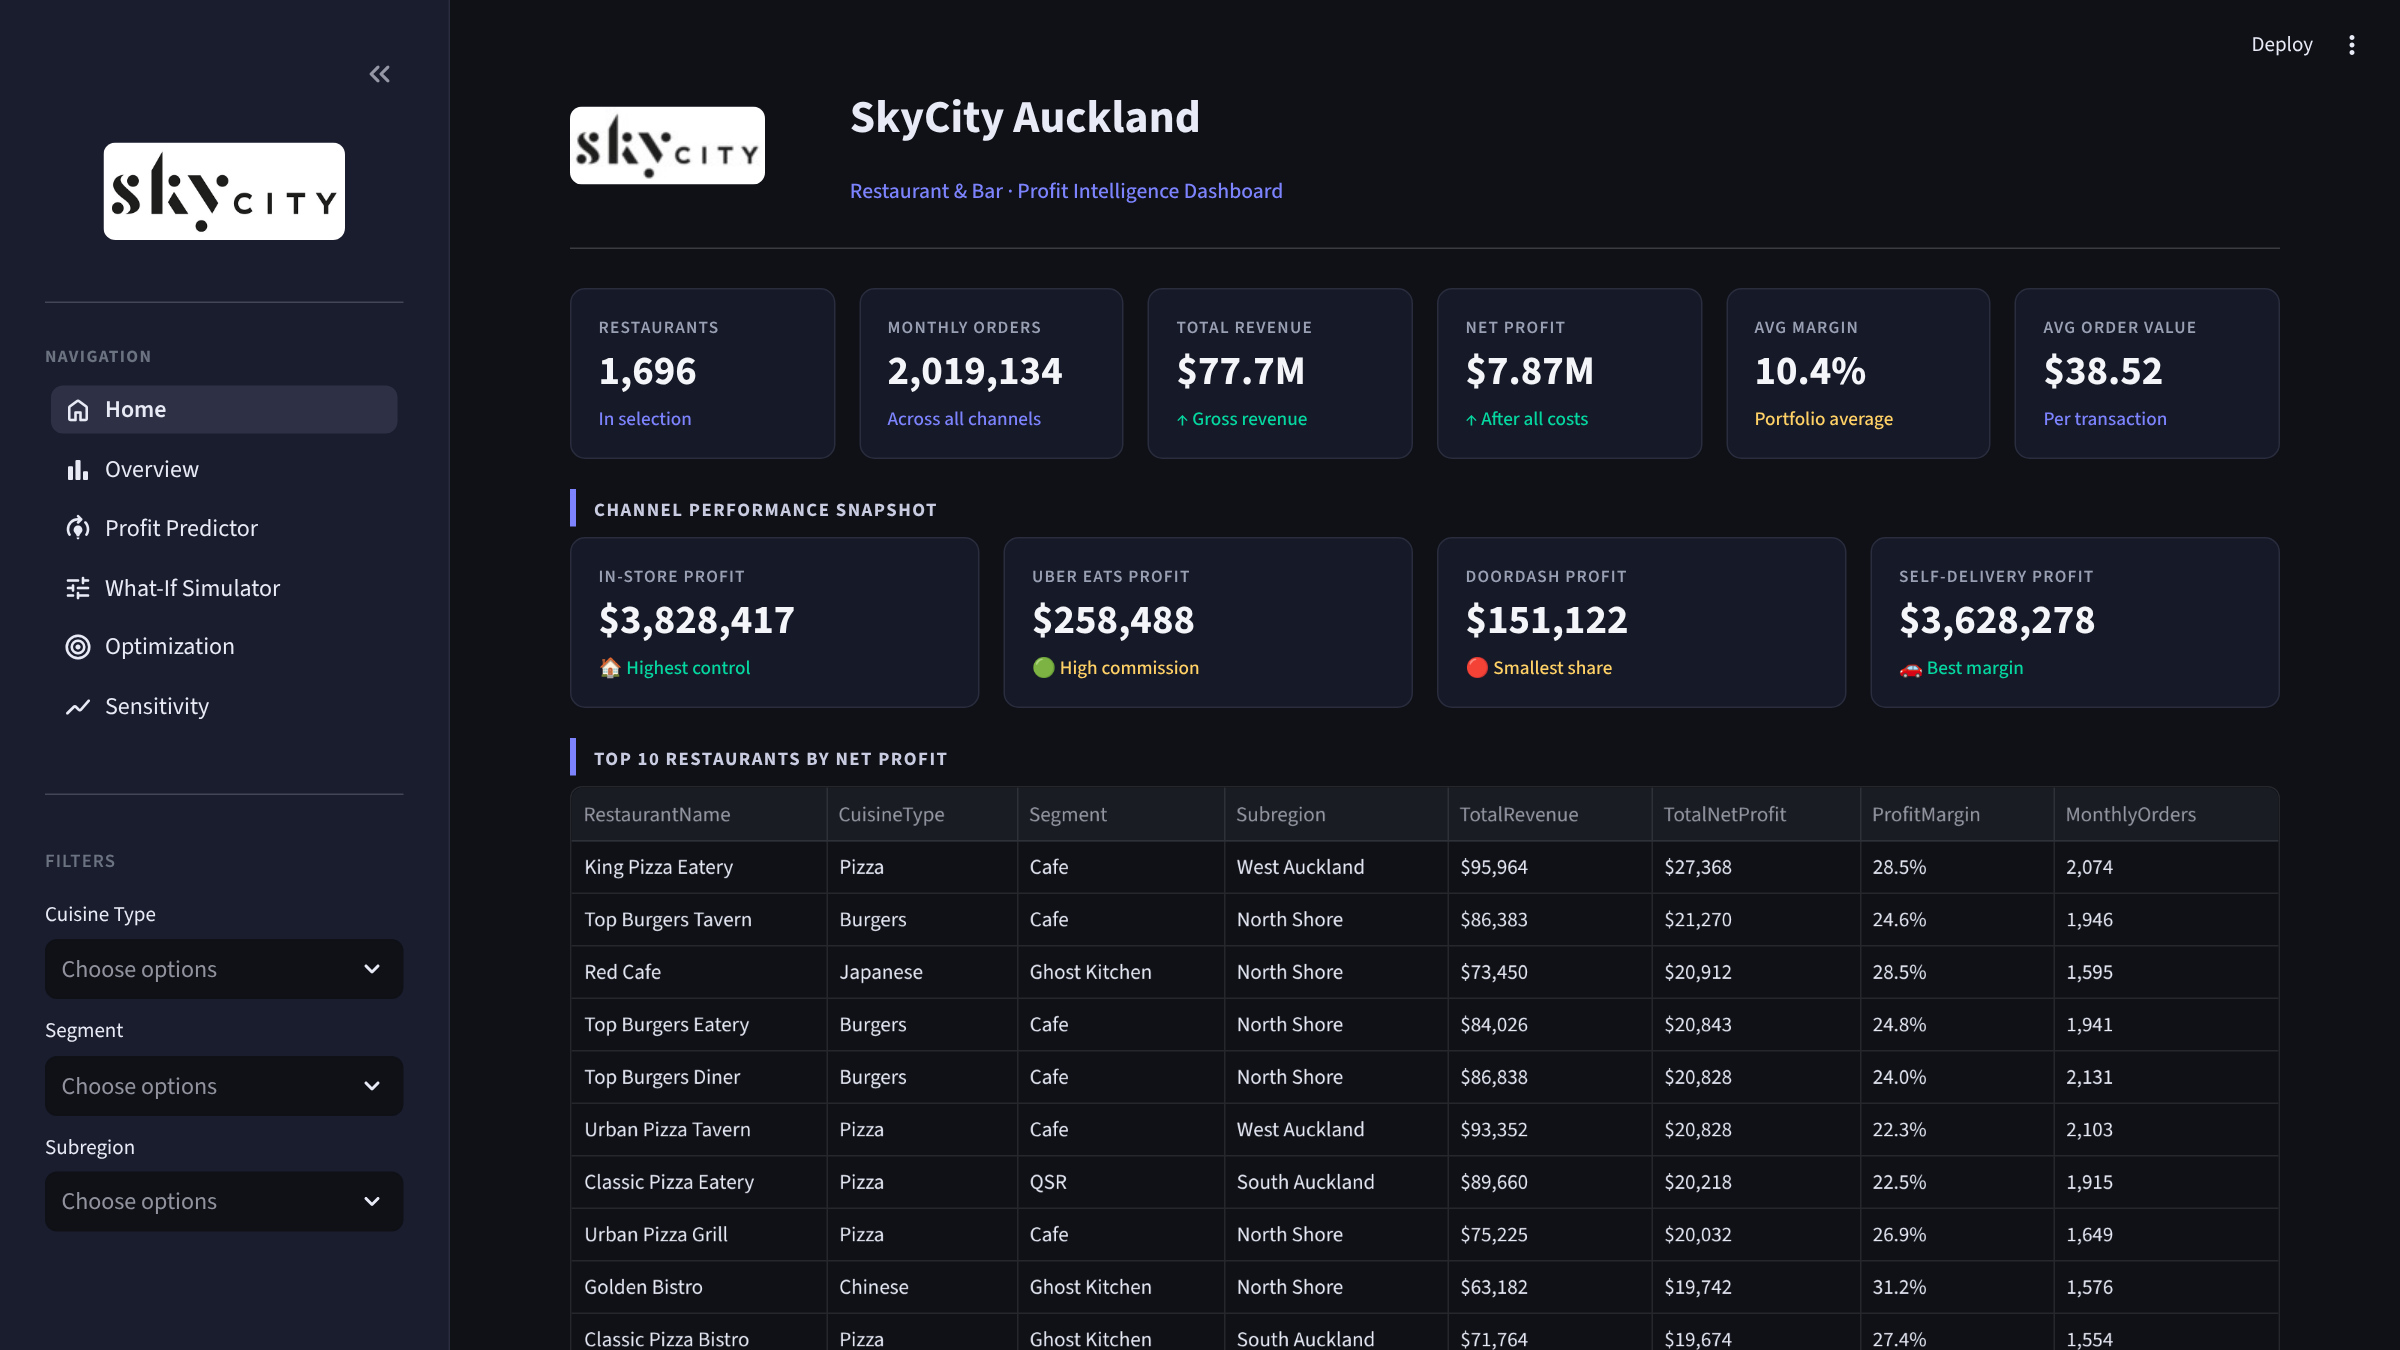
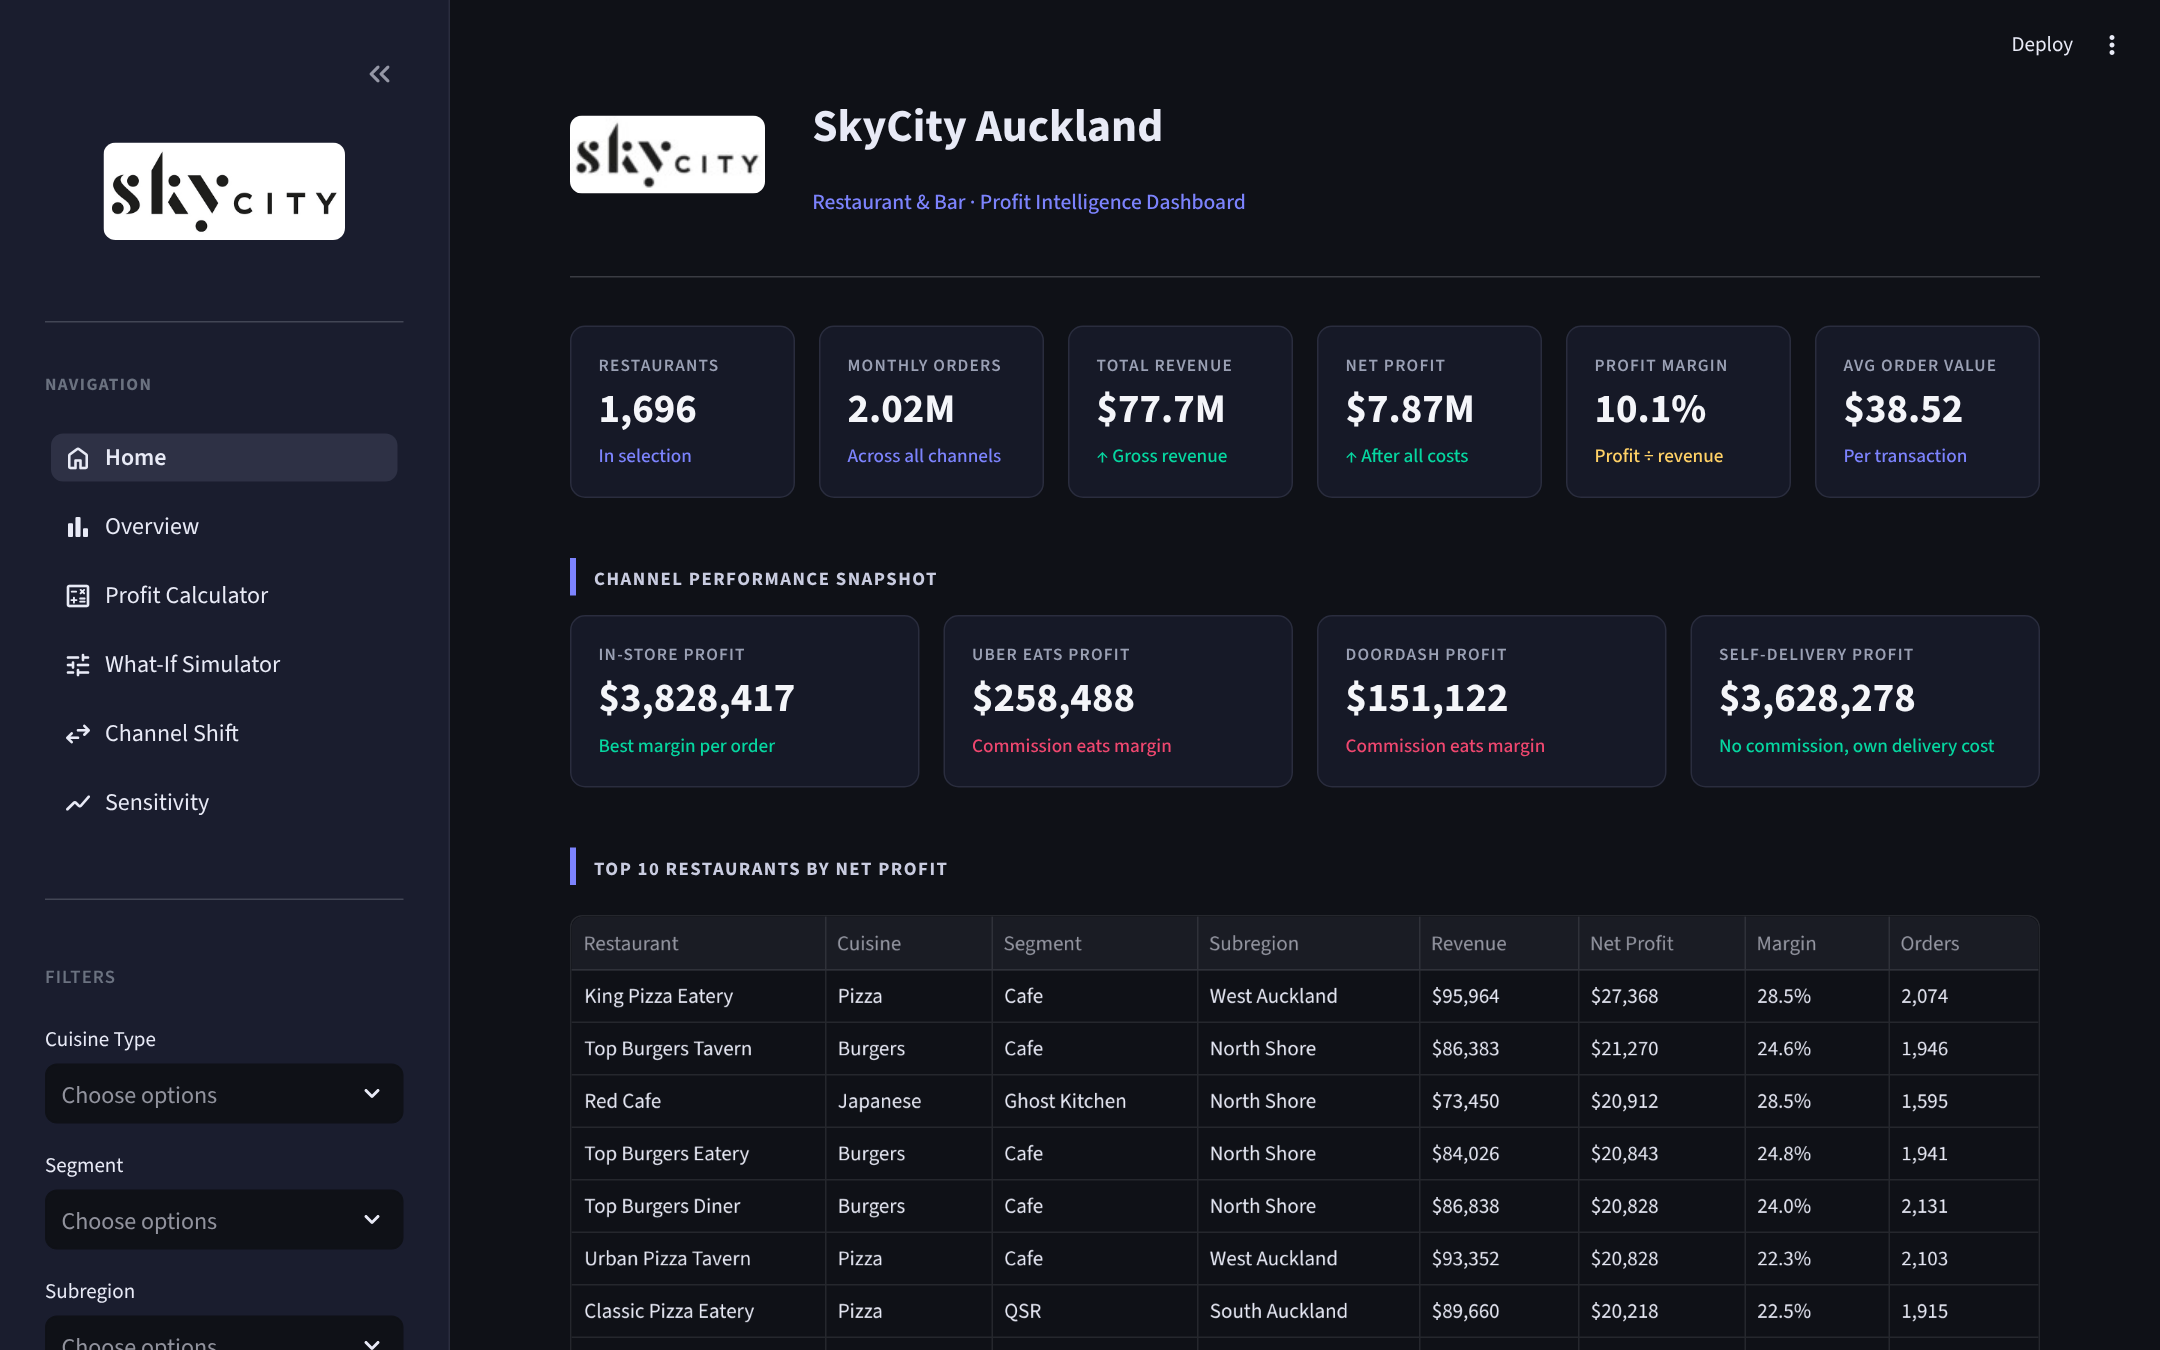
README: describe the rebuilt app (exact formula, Channel Shift); new screenshot
Claude-Session: https://claude.ai/code/session_0152E5F73rTM83YRTh64uy6b

diff --git a/README.md b/README.md
@@ -8,10 +8,9 @@ Project 4 of 4 · Built during my Data Analyst Internship at Unified Mentor (Jan
 
 ![Python](https://img.shields.io/badge/Python-3776AB?logo=python&logoColor=white)
 ![Pandas](https://img.shields.io/badge/Pandas-150458?logo=pandas&logoColor=white)
-![scikit-learn](https://img.shields.io/badge/scikit--learn-F7931E?logo=scikitlearn&logoColor=white)
-![SciPy](https://img.shields.io/badge/SciPy-8CAAE6?logo=scipy&logoColor=white)
+![NumPy](https://img.shields.io/badge/NumPy-013243?logo=numpy&logoColor=white)
+![Matplotlib](https://img.shields.io/badge/Matplotlib-11557C)
 ![Streamlit](https://img.shields.io/badge/Streamlit-FF4B4B?logo=streamlit&logoColor=white)
-![Plotly](https://img.shields.io/badge/Plotly-3F4F75?logo=plotly&logoColor=white)
 
 ![Dashboard](docs/dashboard.png)
 
@@ -22,35 +21,43 @@ Restaurants sell through several channels, each with different costs. Which chan
 ## Key findings
 
 - **Delivery apps bring volume, not profit.** Uber Eats and DoorDash carry **61%** of orders but earn only **5%** of net profit. Their net margin is under 1%.
-- **In-store and self-delivery carry the business.** Together they are 39% of orders but **95%** of profit, with margins of **26.8%** (in-store) and **22.9%** (self-delivery).
-- **Per order, the gap is stark.** An in-store order earns **$10.31** profit, while an Uber Eats order earns **$0.32**.
-- **Costs matter more than commission.** Food cost rate and operating cost rate have the strongest link to profit (correlations of −0.76 and −0.73). Commission rates only range from 27% to 33%, so they barely move profit.
-- **Full-service restaurants lose money overall** (−5.8% margin), while ghost kitchens earn the most (22.2%).
+- **Per order, the gap is stark.** An in-store order earns **$10.31** profit and a self-delivered order **$8.82**. An Uber Eats order earns **$0.32**.
+- **Costs move profit more than commission.** One percentage point of operating or food cost changes monthly profit by **$777K**. One point of commission changes it by **$476K**. That's about **1.6×**, because costs apply to every order and commission only to app orders.
+- **All 408 loss-making restaurants are Full-service.** Their food and operating costs take **87.5%** of revenue before any commission, so the segment loses money overall (**−5.8%** margin). Ghost kitchens earn the most (**22.2%**).
+- **538 of 1,696 restaurants lose money on every delivery-app order**, because food cost + operating cost + commission is more than 100% of the order value.
+- **Moving orders off the apps has real value.** Moving 10% of Uber Eats orders to the restaurants' own delivery would add up to **$676K a month (+8.6%)**, if those customers keep ordering.
 
 Across the portfolio: $77.7M monthly revenue, $7.87M net profit, a 10.1% margin.
 
 ## How it works
 
-1. **Load and prepare** (`app/utils/data_loader.py`): total revenue, total profit, margin, profit per order and channel features for each restaurant.
-2. **Six pages**, all with cuisine, segment and subregion filters:
+1. **Check the data.** Every profit column follows a fixed formula. I checked it on all 1,696 rows, and the largest gap is half a cent:
+   - revenue = orders × average order value
+   - in-store profit = revenue × (1 − food cost rate − operating cost rate)
+   - Uber Eats / DoorDash profit = revenue × (1 − food cost rate − operating cost rate − commission)
+   - self-delivery profit = revenue × (1 − food cost rate − operating cost rate) − orders × delivery cost per order
+2. **Calculate, don't predict** (`app/utils/profit_engine.py`). Because profit is a formula, every scenario is an exact recalculation, not a model guess.
+3. **Six pages**, all with cuisine, segment and subregion filters:
    - **Home:** portfolio KPIs, profit by channel, top 10 restaurants
    - **Overview:** profit by cuisine, segment, channel and subregion
-   - **Profit Predictor:** compares Linear Regression, Random Forest and Gradient Boosting, and predicts profit for inputs you choose
-   - **What-If Simulator:** tests changes to channel mix, commission and demand
-   - **Optimization:** searches for a channel mix under limits you set (SciPy SLSQP solver)
-   - **Sensitivity:** shows which cost inputs move profit most
+   - **Profit Calculator:** the formulas, a live check against the data, channel economics, and a single-restaurant calculator
+   - **What-If Simulator:** change commission, costs, order value or volume, and see how much commission the selection can absorb before profit hits $0
+   - **Channel Shift:** move a share of Uber Eats or DoorDash orders to in-store or self-delivery and see the extra profit
+   - **Sensitivity:** exact profit change for a small step in each driver, plus margin by segment
 
 ## How well it works
 
-- **The profit model's high score is misleading.** Total profit is calculated from the same inputs the model is given (orders, order value, cost rates), so it can almost rebuild profit from them. This is called **data leakage**. The score shows the model can copy that calculation, not that it can forecast new restaurants.
-- **The optimiser needs rework.** It stops after its first step and returns its starting guess. Its "uplift" compares that guess with an average channel mix whose shares add up to more than 100%, so the uplift figure is not a real optimisation result.
-- **The descriptive findings above don't depend on either model.** They come straight from adding up revenue and profit by channel.
+- **The numbers are exact.** The formula matches the dataset to within half a cent on every row, so there is no model error.
+- **Why there's no machine-learning model.** My first version trained Random Forest and Gradient Boosting models to predict profit, and they scored R² above 0.95. That score was meaningless. Profit is built from the same columns the models were given, so they were just re-learning the formula. This is called **data leakage**. I replaced them with the exact formula.
+- **Why the old optimiser was removed.** It stopped after one step and returned its starting guess, so its "45.4% uplift" was not a real result. The Channel Shift page replaces it with a calculation that shows its assumptions.
 
 ## Limitations
 
-- **Sample data.** The dataset was provided for the internship. I could not confirm it comes from SkyCity itself, so treat it as sample data.
-- **Channel share columns don't add up.** For each restaurant, the four share columns sum to 103%–155%. The findings above use actual order and profit counts instead.
-- **One month, no history.** The data is a single snapshot, so it shows where profit comes from, not how it changes.
+- **Sample data.** The dataset was provided for the internship. I could not confirm it comes from SkyCity itself, and because every profit figure follows a formula, it behaves like modelled data rather than real accounts.
+- **Channel share columns don't add up.** For each restaurant, the four share columns sum to 103%–155%. The app ignores them and uses actual order counts.
+- **No customer behaviour.** The data is a single month. Scenarios assume order volumes don't change when commission or prices change.
+- **Channel Shift is an upper bound.** It assumes every moved customer keeps ordering at the same order value.
+- **Same cost rates on every channel.** The data applies one food cost rate and one operating cost rate to all channels. Real in-store dining may cost more to serve.
 
 ## Run it locally
 
@@ -66,10 +73,12 @@ streamlit run app/main.py
 | File | What it is |
 |---|---|
 | `app/main.py` | Home page |
-| `app/pages/` | Overview, Profit Predictor, What-If Simulator, Optimization, Sensitivity |
-| `app/utils/data_loader.py` | Loads data and builds features |
+| `app/pages/` | Overview, Profit Calculator, What-If Simulator, Channel Shift, Sensitivity |
+| `app/utils/profit_engine.py` | Exact profit formulas, scenarios, break-even and sensitivity |
+| `app/utils/data_loader.py` | Loads data and builds totals |
 | `app/utils/plot_utils.py` | Shared styling and chart helpers |
 | `data/` | Restaurant-level dataset (1,696 rows) |
+| `docs/` | Revised research paper, executive summary, dashboard screenshot |
 
 ## Research paper
 
@@ -80,7 +89,7 @@ I authored a research paper on this project (JETIR paper ID 583938, accepted, no
 
 ## How I built it
 
-I used AI to help write the Python code. I framed the business question, checked the outputs against the data, and wrote the findings.
+I used AI to help write the Python code. I framed the business question, checked the outputs against the data, and wrote the findings. An AI-assisted review found that profit was a fixed formula, and I rebuilt the model pages around it.
 
 ## Author
 
